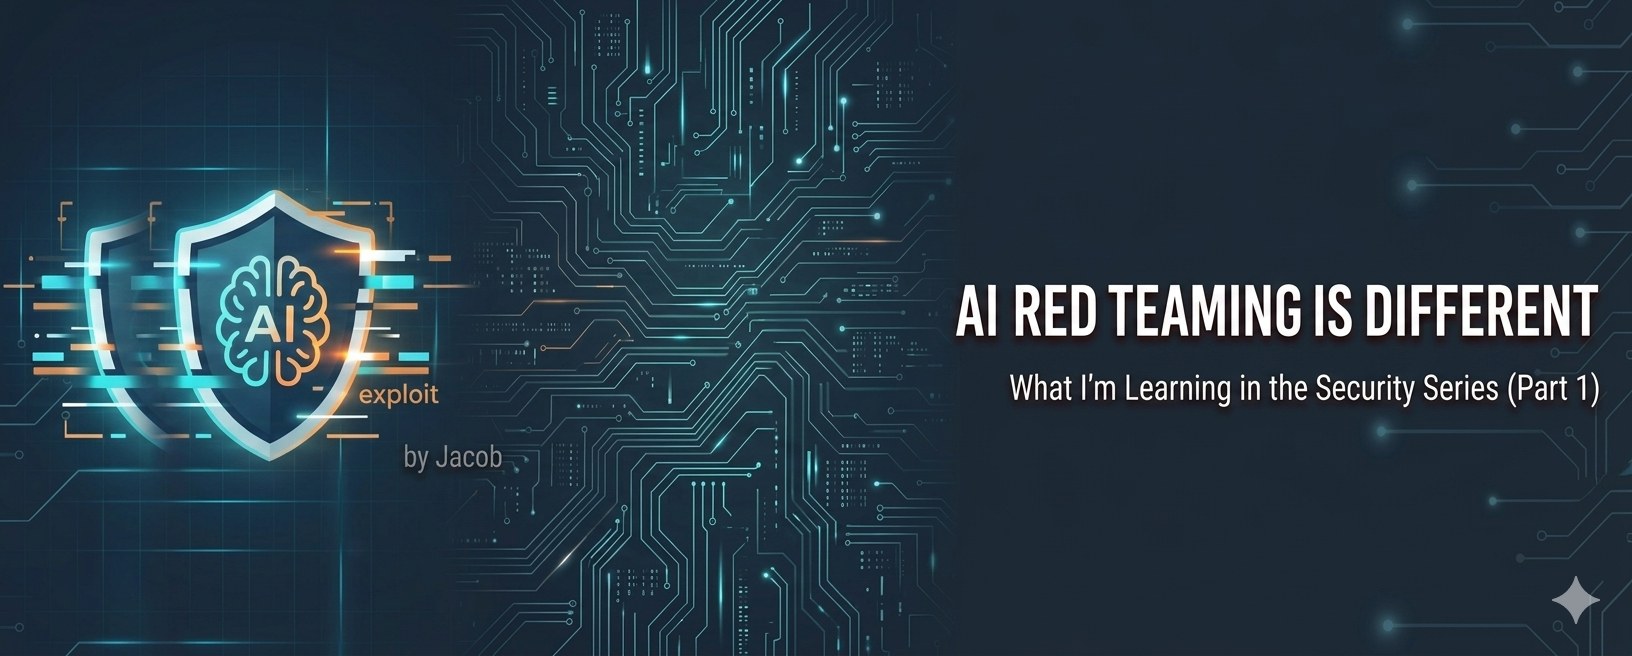
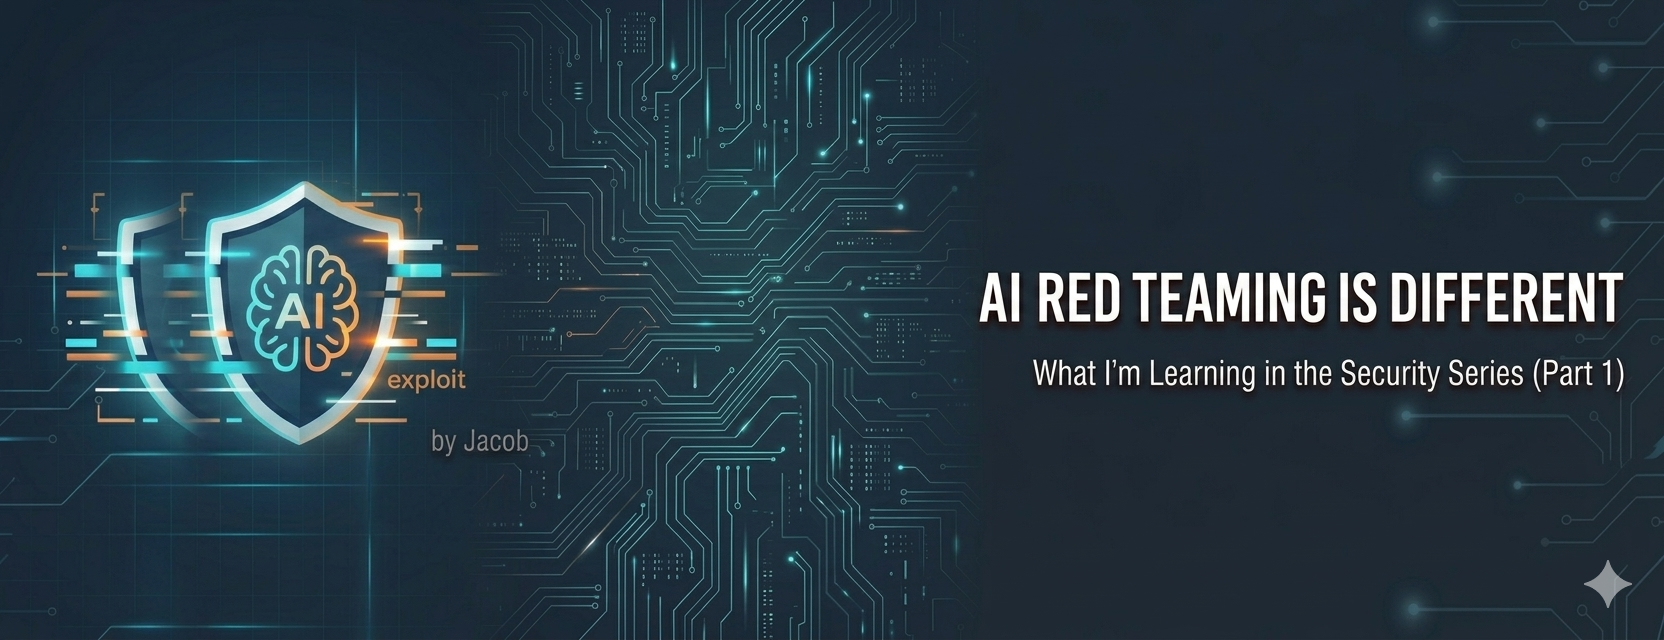
Fixing thumbnail

diff --git a/content/post/ai-security-series-part1.md b/content/post/ai-security-series-part1.md
@@ -13,7 +13,7 @@ categories = [
 series = ["AI Red Teaming"]
 thumbnail= "images/part1.png"
 +++
-<!-- thumbnail is 1504 x 600 -->
+<!-- thumbnail is 1300 x 500 -->
 
 I've been working through a structured AI red teaming curriculum over the past few weeks, and early on something clicked that reframed how I'd been thinking about this whole space. It wasn't a technique or a tool. It was the realization that AI systems are a fundamentally different class of target, and that the mental models I'd built doing cloud security work don't map cleanly onto this.
 

diff --git a/content/post/gandalf-post.md b/content/post/gandalf-post.md
@@ -14,7 +14,7 @@ series = ["AI Red Teaming"]
 thumbnail= "images/gand5.png"
 +++
 
-<!-- thumbnail is 1504 x 600 -->
+<!-- thumbnail is 1300 x 500 -->
 
 I remember sitting down with [Gandalf by Lakera](https://gandalf.lakera.ai/) thinking it'd take maybe twenty minutes. An hour later I was hex-encoding attack strings and deep in a story about two bunnies in love. Not where I expected my evening to go.
 
